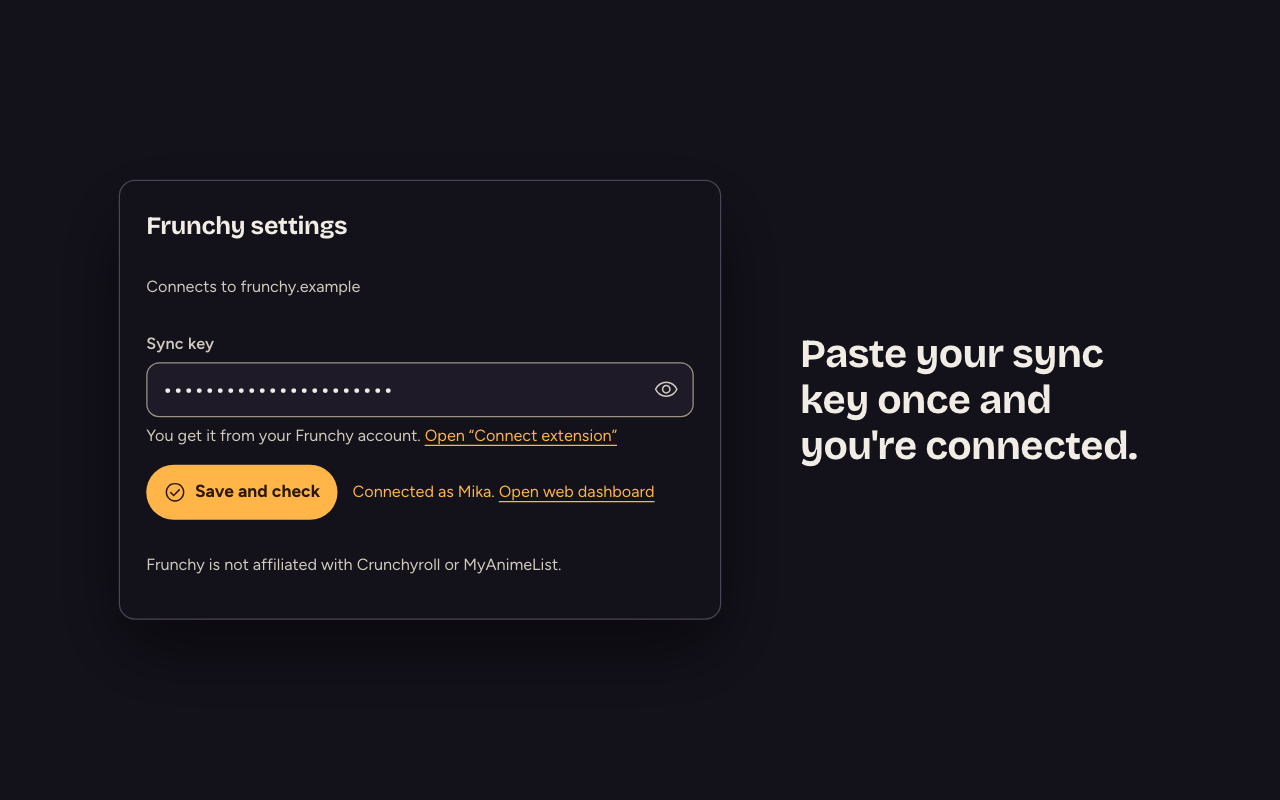
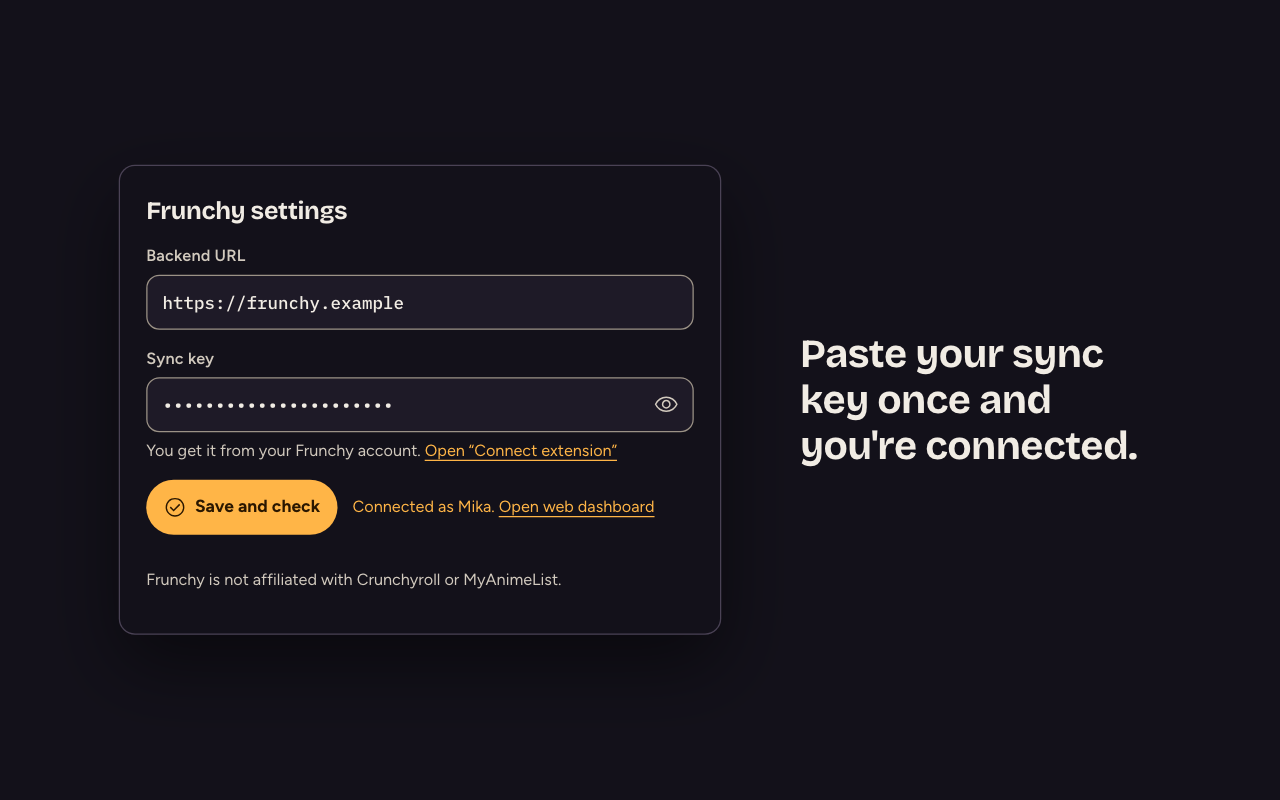
Let the store build point at a self-hosted Frunchy
Frunchy is self-hosted, so the store build no longer fixes one server. It keeps the default address and the install-time permissions (Crunchyroll and the default origin), adds optional https://*/* access that Chrome asks for when the user saves another address, and refuses non-https addresses by reading the manifest at runtime. The fixed-backend code, its install-time migration and connects_to are gone; the listing, privacy answers and options screenshots follow.

Changed region(s): [[0.0938, 0.25, 0.5312, 0.75], [0.5, 0.4688, 0.5312, 0.5312]]

diff --git a/src/components/Settings.svelte b/src/components/Settings.svelte
@@ -3,7 +3,7 @@
   import { api, ApiFailure, webPages } from "src/api";
   import Icon from "src/components/Icon.svelte";
   import { errorText, t } from "src/i18n";
-  import { DEFAULT_BASE_URL, FIXED_BACKEND, getSettings, saveSettings, type Settings } from "src/settings";
+  import { DEFAULT_BASE_URL, getSettings, saveSettings, type Settings } from "src/settings";
   import { syncState } from "src/sync";
 
   let baseUrl = $state(DEFAULT_BASE_URL);
@@ -12,6 +12,9 @@
   let checking = $state(false);
   let result = $state<{ ok: boolean; text: string; dashboardUrl?: string } | null>(null);
   let showKey = $state(false);
+
+  // The development manifest also allows http servers; the store build reaches only secure sites.
+  const allowsHttp = chrome.runtime.getManifest().optional_host_permissions?.includes("http://*/*") ?? false;
 
   // Where to get a key, for whatever backend URL is typed in right now.
   const connectUrl = $derived.by(() => {
@@ -34,20 +37,22 @@
 
     let origin: string;
     try {
-      origin = new URL(FIXED_BACKEND ? DEFAULT_BASE_URL : baseUrl.trim()).origin;
+      origin = new URL(baseUrl.trim()).origin;
     } catch {
+      result = { ok: false, text: t("err_invalid_url") };
+      return;
+    }
+    // The store build reaches only secure sites (the default origin is allowed at install).
+    if (origin !== DEFAULT_BASE_URL && !allowsHttp && !origin.startsWith("https://")) {
       result = { ok: false, text: t("err_invalid_url") };
       return;
     }
 
     // Must run first: Chrome only shows the prompt while the click is fresh.
-    // The store build's backend is a required host permission already.
-    if (!FIXED_BACKEND) {
-      const granted = await chrome.permissions.request({ origins: [`${origin}/*`] });
-      if (!granted) {
-        result = { ok: false, text: t("err_permission_denied", origin) };
-        return;
-      }
+    const granted = await chrome.permissions.request({ origins: [`${origin}/*`] });
+    if (!granted) {
+      result = { ok: false, text: t("err_permission_denied", origin) };
+      return;
     }
 
     const settings: Settings = { baseUrl: origin, syncKey: syncKey.trim() };
@@ -75,19 +80,15 @@
 
 <form class="settings" onsubmit={saveAndCheck}>
   <h1>{t("settings_title")}</h1>
-  {#if FIXED_BACKEND}
-    <p class="hint">{t("connects_to", new URL(DEFAULT_BASE_URL).host)}</p>
-  {:else}
-    <div class="field">
-      <div class="label-row">
-        <label class="label" for="base-url">{t("base_url_label")}</label>
-        {#if baseUrl.trim() !== DEFAULT_BASE_URL}
-          <button type="button" class="link" onclick={() => (baseUrl = DEFAULT_BASE_URL)}>{t("use_default_url")}</button>
-        {/if}
-      </div>
-      <input id="base-url" type="url" bind:value={baseUrl} required />
+  <div class="field">
+    <div class="label-row">
+      <label class="label" for="base-url">{t("base_url_label")}</label>
+      {#if baseUrl.trim() !== DEFAULT_BASE_URL}
+        <button type="button" class="link" onclick={() => (baseUrl = DEFAULT_BASE_URL)}>{t("use_default_url")}</button>
+      {/if}
     </div>
-  {/if}
+    <input id="base-url" type="url" bind:value={baseUrl} required />
+  </div>
   <div class="field">
     <label class="label" for="sync-key">{t("sync_key_label")}</label>
     <div class="key">

diff --git a/vite.config.ts b/vite.config.ts
@@ -6,7 +6,7 @@ import devManifest from "./manifest.json" with { type: "json" };
 
 const srcDir = fileURLToPath(new URL("./src", import.meta.url));
 
-// The backend the store build is fixed to: https only, and only the origin is kept.
+// The store build's default backend: https only, and only the origin is kept.
 const storeBackendOrigin = () => {
     const value = process.env.FRUNCHY_BACKEND_URL;
     if (!value) {
@@ -28,15 +28,16 @@ const storeBackendOrigin = () => {
 
 // https://vitejs.dev/config/
 export default defineConfig(({ mode }) => {
-    // `vite build --mode store` makes the Chrome Web Store build: one fixed backend, no localhost.
+    // `vite build --mode store` makes the Chrome Web Store build: a default backend instead of localhost.
     const store = mode === "store";
     const origin = store ? storeBackendOrigin() : "";
 
-    // manifest.json stays the development manifest; the store build narrows its host permissions.
+    // manifest.json stays the development manifest. The store build asks at install only for Crunchyroll
+    // and its default backend; any other https server (self-hosted) is requested when the user saves it.
     const manifest = structuredClone(devManifest) as typeof devManifest & { optional_host_permissions?: string[] };
     if (store) {
         manifest.host_permissions = ["https://www.crunchyroll.com/*", `${origin}/*`];
-        delete manifest.optional_host_permissions;
+        manifest.optional_host_permissions = ["https://*/*"];
     }
 
     return {
@@ -47,7 +48,6 @@ export default defineConfig(({ mode }) => {
             },
         },
         define: {
-            __STORE_BUILD__: JSON.stringify(store),
             __BACKEND_URL__: JSON.stringify(store ? origin : "http://localhost:5099"),
         },
         build: {

diff --git a/src/background/service-worker.ts b/src/background/service-worker.ts
@@ -1,4 +1,4 @@
-import { DEFAULT_BASE_URL, FIXED_BACKEND, getSettings, isConfigured, saveSettings, type Settings } from "src/settings";
+import { getSettings, isConfigured } from "src/settings";
 import { storage, type HistoryPage } from "src/storage";
 import { enqueue, finishRun, isRetryAlarm, processQueue, reachesMarker, syncState } from "src/sync";
 
@@ -67,20 +67,7 @@ chrome.runtime.onStartup.addListener(() => {
   registerHook().catch(console.error);
   processQueue();
 });
-
-// The store build is fixed to one backend. A backend URL stored by a development
-// install is replaced by it, which counts as a different Frunchy user (as in
-// Settings.svelte), so the import state starts over. The key is kept.
-const adoptFixedBackend = async () => {
-  if (!FIXED_BACKEND) return;
-  // Raw read: getSettings() already forces the fixed baseUrl.
-  const stored = (await chrome.storage.local.get("settings")).settings as Partial<Settings> | undefined;
-  if (!stored?.baseUrl || stored.baseUrl === DEFAULT_BASE_URL) return;
-  await saveSettings({ baseUrl: DEFAULT_BASE_URL, syncKey: stored.syncKey ?? "" });
-  await syncState.update({ marker: null, lastImport: null, lastRejectionAt: null, sent: {} });
-};
-
 chrome.runtime.onInstalled.addListener(() => {
   registerHook().catch(console.error);
-  adoptFixedBackend().catch(console.error).finally(processQueue);
+  processQueue();
 });

diff --git a/src/settings.ts b/src/settings.ts
@@ -2,20 +2,13 @@ export type Settings = { baseUrl: string; syncKey: string };
 
 export const DEFAULT_BASE_URL = __BACKEND_URL__;
 
-// The store build talks only to its own backend: no backend URL field, and a
-// stored URL is ignored.
-export const FIXED_BACKEND = __STORE_BUILD__;
-
 // Kept in storage.local, not sync: the key shouldn't follow the user to other
 // Chrome profiles they sign into.
-export const getSettings = async (): Promise<Settings> => {
-  const settings: Settings = {
-    baseUrl: DEFAULT_BASE_URL,
-    syncKey: "",
-    ...((await chrome.storage.local.get("settings")).settings as Partial<Settings> | undefined),
-  };
-  return FIXED_BACKEND ? { ...settings, baseUrl: DEFAULT_BASE_URL } : settings;
-};
+export const getSettings = async (): Promise<Settings> => ({
+  baseUrl: DEFAULT_BASE_URL,
+  syncKey: "",
+  ...((await chrome.storage.local.get("settings")).settings as Partial<Settings> | undefined),
+});
 
 export const saveSettings = (settings: Settings): Promise<void> =>
   chrome.storage.local.set({ settings });

diff --git a/scripts/store-assets/entry.ts b/scripts/store-assets/entry.ts
@@ -147,6 +147,8 @@ const chromeStub: any = {
     sendMessage: async () => ({ queued: 0 }),
     onMessage: listeners(),
     openOptionsPage: async () => {},
+    // The store build's manifest: it reaches https servers only.
+    getManifest: () => ({ optional_host_permissions: ["https://*/*"] }),
     lastError: undefined,
   },
   permissions: { request: async () => true },

diff --git a/src/vite-env.d.ts b/src/vite-env.d.ts
@@ -2,5 +2,4 @@
 /// <reference types="vite/client" />
 
 // Replaced at build time by `define` in vite.config.ts.
-declare const __STORE_BUILD__: boolean;
 declare const __BACKEND_URL__: string;

diff --git a/specs/005-self-hosted-release/tasks.md b/specs/005-self-hosted-release/tasks.md
@@ -34,11 +34,11 @@
 
 ## Phase 3: User Story 2 - Point the store build at your own Frunchy (Priority: P1)
 
-- [ ] T007 [US2] Remove the fixed backend (research R5): `src/settings.ts` (drop `FIXED_BACKEND`; `getSettings` back to the spread without override; keep the comments that still apply), `src/vite-env.d.ts` (drop `__STORE_BUILD__`), `src/background/service-worker.ts` (drop `adoptFixedBackend`, restore the original `onInstalled`, trim imports), `public/_locales/{en,es}/messages.json` (drop `connects_to`), `vite.config.ts` (store mode: `manifest.optional_host_permissions = ["https://*/*"]`; drop the `__STORE_BUILD__` define; fix the comments: the store build has a default backend, not a fixed one).
-- [ ] T008 [US2] `src/components/Settings.svelte`: remove the `FIXED_BACKEND` branches so the markup is the dev markup again. Add the https rule: `const allowsHttp = chrome.runtime.getManifest().optional_host_permissions?.includes("http://*/*") ?? false;` and in `saveAndCheck`, after computing `origin`, if `origin !== DEFAULT_BASE_URL && !allowsHttp && !origin.startsWith("https://")` → `result = { ok: false, text: t("err_invalid_url") }; return;` with a one-line comment (the store build reaches only secure sites). Everything else (permission request, reset on change) unchanged.
-- [ ] T009 [US2] `scripts/store-assets/vite.config.mjs`: drop `__STORE_BUILD__`; `__BACKEND_URL__: JSON.stringify(process.env.FRUNCHY_BACKEND_URL ?? "https://frunchy.example")`. Then `npm run store:assets` and check `store/images/screenshot-en-4.png` and `-es-4.png` show the server field with the default address. Commit only the two options images (the other images should be byte-identical or differ only by the scraping-animation frame; don't commit unrelated image changes).
-- [ ] T010 [P] [US2] Texts: `store/listing.en.md` and `.es.md` gain one sentence in the long description (en: "Frunchy is self-hosted: if you run your own Frunchy server, enter its address in the extension's settings." es: "Frunchy se puede autoalojar: si tienes tu propio servidor de Frunchy, escribe su dirección en los ajustes de la extensión."). `store/privacy-practices.md`: replace the `<backend>/*` host-permission answer with one covering the default origin plus the optional `https://*/*` (research R6), and keep the "talks to no other server" claim true ("only Crunchyroll and the Frunchy server the user configured").
-- [ ] T011 [US2] Checks: `npm run build`, `npm run check`, `FRUNCHY_BACKEND_URL=https://frunchy.example npm run package`, the manifest assertions and the grep in quickstart §1. Options-page harness (quickstart §4): reuse `/Users/jjchiw/.claude/jobs/0e1ec898/tmp/store-tools/harness/` (it mounts `Settings.svelte`; update its defines; stub `chrome.runtime.getManifest` to return the store manifest's `optional_host_permissions`, and record `chrome.permissions.request` calls). Run the http and https save cases.
+- [X] T007 [US2] Remove the fixed backend (research R5): `src/settings.ts` (drop `FIXED_BACKEND`; `getSettings` back to the spread without override; keep the comments that still apply), `src/vite-env.d.ts` (drop `__STORE_BUILD__`), `src/background/service-worker.ts` (drop `adoptFixedBackend`, restore the original `onInstalled`, trim imports), `public/_locales/{en,es}/messages.json` (drop `connects_to`), `vite.config.ts` (store mode: `manifest.optional_host_permissions = ["https://*/*"]`; drop the `__STORE_BUILD__` define; fix the comments: the store build has a default backend, not a fixed one).
+- [X] T008 [US2] `src/components/Settings.svelte`: remove the `FIXED_BACKEND` branches so the markup is the dev markup again. Add the https rule: `const allowsHttp = chrome.runtime.getManifest().optional_host_permissions?.includes("http://*/*") ?? false;` and in `saveAndCheck`, after computing `origin`, if `origin !== DEFAULT_BASE_URL && !allowsHttp && !origin.startsWith("https://")` → `result = { ok: false, text: t("err_invalid_url") }; return;` with a one-line comment (the store build reaches only secure sites). Everything else (permission request, reset on change) unchanged.
+- [X] T009 [US2] `scripts/store-assets/vite.config.mjs`: drop `__STORE_BUILD__`; `__BACKEND_URL__: JSON.stringify(process.env.FRUNCHY_BACKEND_URL ?? "https://frunchy.example")`. Then `npm run store:assets` and check `store/images/screenshot-en-4.png` and `-es-4.png` show the server field with the default address. Commit only the two options images (the other images should be byte-identical or differ only by the scraping-animation frame; don't commit unrelated image changes).
+- [X] T010 [P] [US2] Texts: `store/listing.en.md` and `.es.md` gain one sentence in the long description (en: "Frunchy is self-hosted: if you run your own Frunchy server, enter its address in the extension's settings." es: "Frunchy se puede autoalojar: si tienes tu propio servidor de Frunchy, escribe su dirección en los ajustes de la extensión."). `store/privacy-practices.md`: replace the `<backend>/*` host-permission answer with one covering the default origin plus the optional `https://*/*` (research R6), and keep the "talks to no other server" claim true ("only Crunchyroll and the Frunchy server the user configured").
+- [X] T011 [US2] Checks: `npm run build`, `npm run check`, `FRUNCHY_BACKEND_URL=https://frunchy.example npm run package`, the manifest assertions and the grep in quickstart §1. Options-page harness (quickstart §4): reuse `/Users/jjchiw/.claude/jobs/0e1ec898/tmp/store-tools/harness/` (it mounts `Settings.svelte`; update its defines; stub `chrome.runtime.getManifest` to return the store manifest's `optional_host_permissions`, and record `chrome.permissions.request` calls). Run the http and https save cases.
 
 **Checkpoint**: commit.
 

diff --git a/store/privacy-practices.md b/store/privacy-practices.md
@@ -2,7 +2,7 @@
 
 Copy each answer into the matching field of the developer dashboard (Store listing, then Privacy
 practices). `<backend>` is the HTTPS origin the store build was made for (the
-`FRUNCHY_BACKEND_URL` of `npm run package`).
+`FRUNCHY_BACKEND_URL` of `npm run package`), the extension's default server.
 
 ## Single purpose
 
@@ -36,8 +36,14 @@ The extension's content script and the page hook run on Crunchyroll pages to rea
 watch history, and the popup reads the active tab's URL to tell whether it is the history page.
 
 **Host permission `<backend>/*`**
-The Frunchy backend API. The extension uploads history pages and checks the sync key there. It
-talks to no other server.
+The default Frunchy backend API. The extension uploads history pages and checks the sync key
+there. It talks to no server other than Crunchyroll and the Frunchy server the user configured.
+
+**Optional host permission `https://*/*`**
+Frunchy can be self-hosted, so the user can enter the address of their own Frunchy server in the
+extension's settings. Chrome asks for access to that one `https://` site only when the user saves
+the address, and the extension then uploads history pages and checks the sync key there. Nothing is
+requested at install for it, and the extension contacts no other site.
 
 ## Remote code
 
@@ -100,7 +106,8 @@ extension.
 
 **Sent to the Frunchy backend**
 
-- The watch-history pages, with the Crunchyroll profile id, only to the configured backend.
+- The watch-history pages, with the Crunchyroll profile id, only to the configured backend (the
+  default server, or the user's own Frunchy server).
 - The sync key, as a bearer token, so the backend knows which Frunchy account the history belongs
   to.
 
@@ -110,4 +117,4 @@ extension.
 - Crunchyroll's sign-in tokens. The page hook reads only the profile id and name from those
   responses, and the sign-in header of the site's history requests is only used for its own
   requests to Crunchyroll.
-- Anything to any other server.
+- Anything to any server other than Crunchyroll and the Frunchy server the user configured.

diff --git a/store/listing.es.md b/store/listing.es.md
@@ -26,6 +26,8 @@ Cómo empezar
 3. Pega la clave en los ajustes de la extensión y pulsa Guardar y comprobar.
 4. Abre tu historial de Crunchyroll y pulsa Escanear historial.
 
+Frunchy se puede autoalojar: si tienes tu propio servidor de Frunchy, escribe su dirección en los ajustes de la extensión.
+
 Frunchy no está afiliado a Crunchyroll ni a MyAnimeList.
 
 ## Línea de no afiliación

diff --git a/store/listing.en.md b/store/listing.en.md
@@ -26,6 +26,8 @@ Getting started
 3. Paste the key into the extension's settings and press Save and check.
 4. Open your Crunchyroll history and press Scrape history.
 
+Frunchy is self-hosted: if you run your own Frunchy server, enter its address in the extension's settings.
+
 Frunchy is not affiliated with Crunchyroll or MyAnimeList.
 
 ## Not-affiliated line
